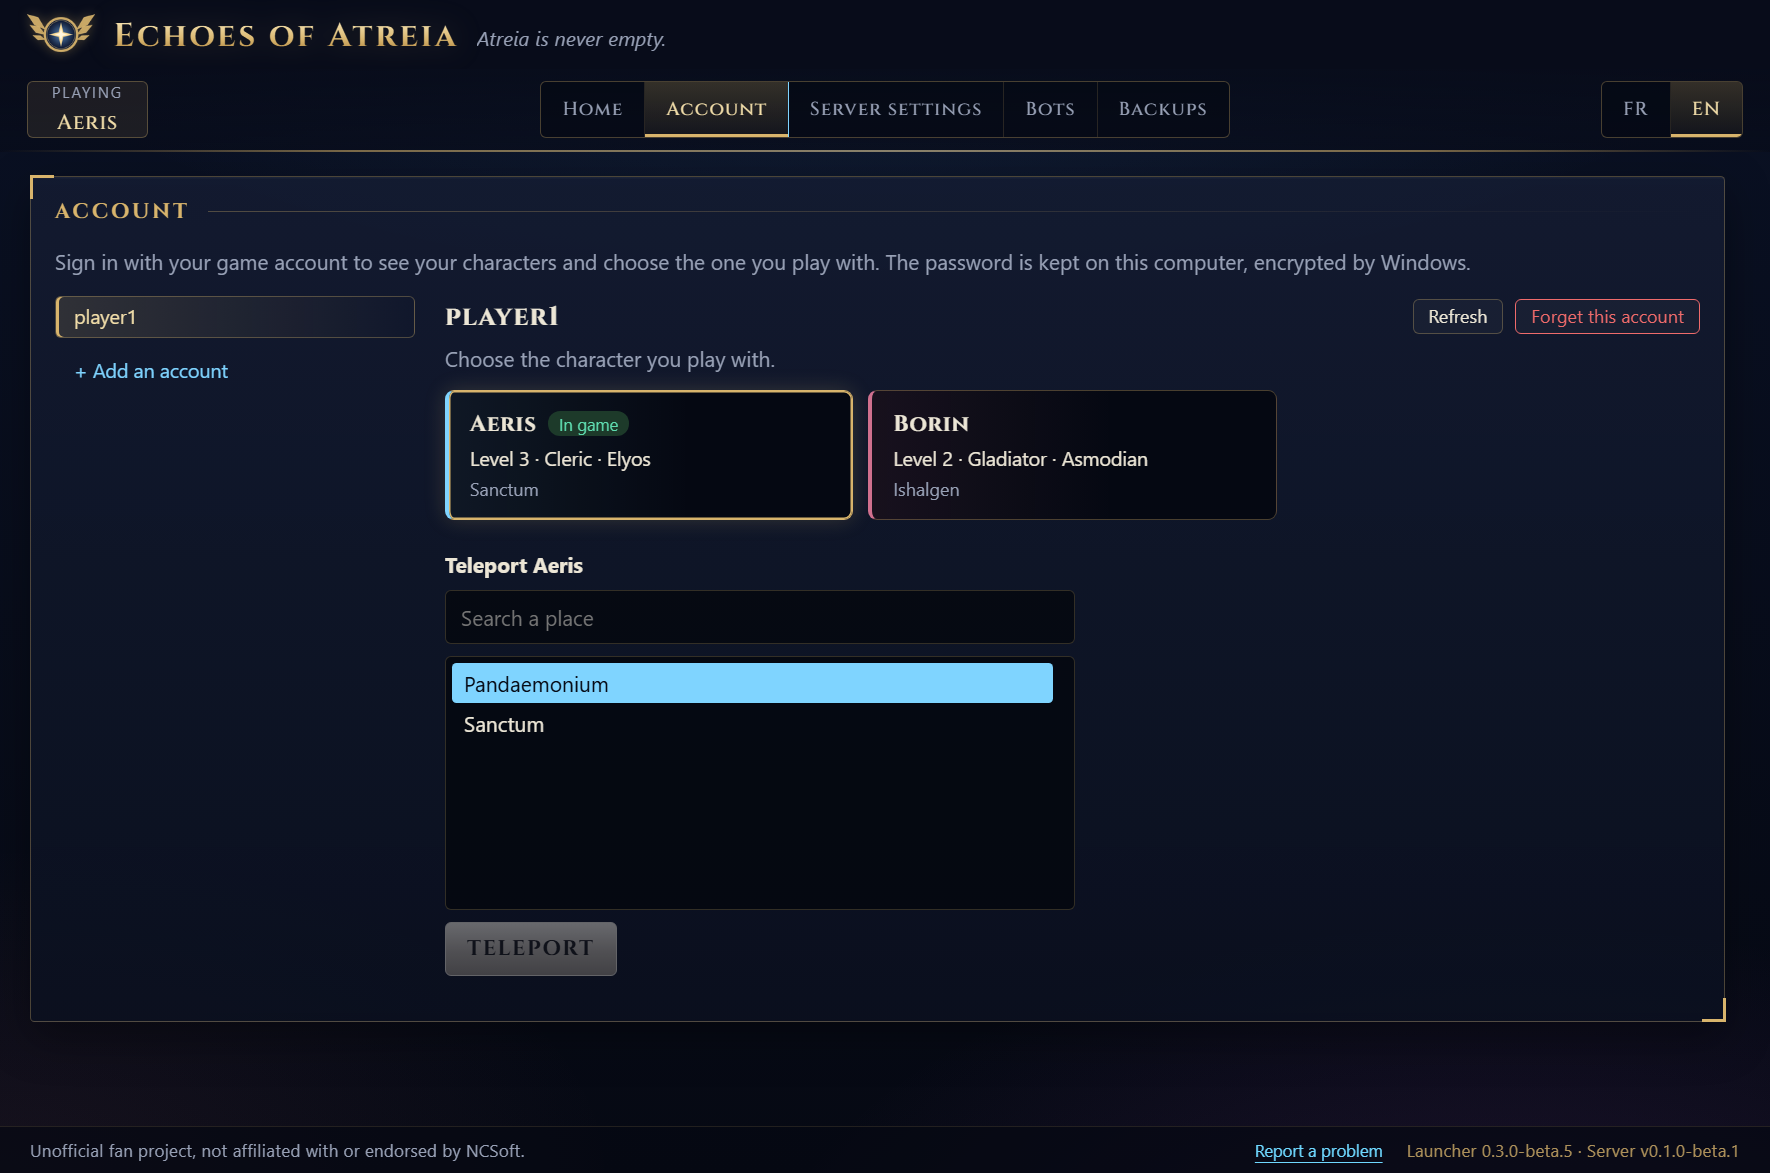
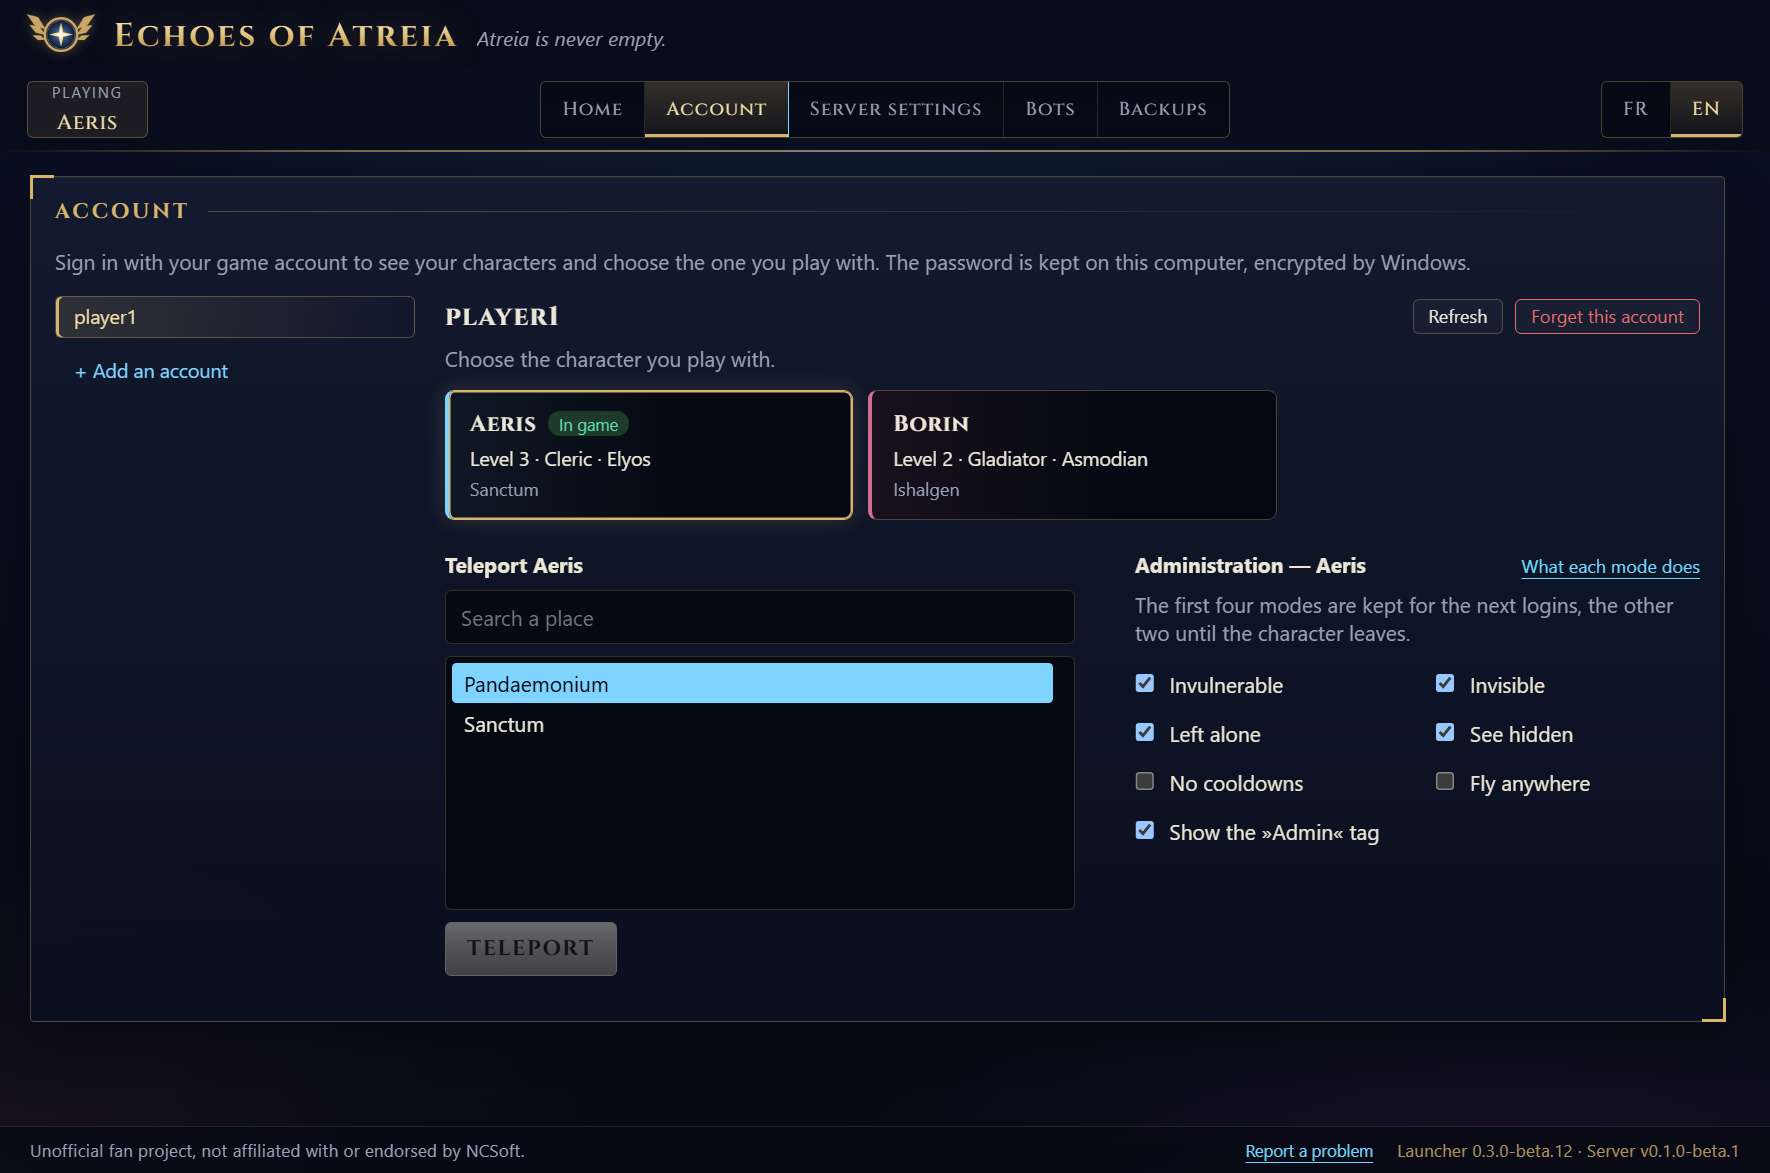
README: what the launcher does today, new pictures and one of the install from nothing; the news date read from the notes

diff --git a/tests/screenshots/readme.spec.ts b/tests/screenshots/readme.spec.ts
@@ -1,9 +1,10 @@
-import { readFileSync } from 'node:fs'
+import { readFileSync, rmSync } from 'node:fs'
 import { createServer, type Server } from 'node:http'
 import type { AddressInfo } from 'node:net'
 import { join, resolve } from 'node:path'
 import { expect, test, type Page } from '@playwright/test'
 import { createFakeInstall, launchWith } from '../e2e/fakeInstall'
+import { ServerFeedServer } from '../e2e/serverFeed'
 
 /**
  * Takes the pictures of README.md into docs/images/, in English, at the size the pages are drawn for. The fake install holds made-up accounts,
@@ -14,12 +15,12 @@ import { createFakeInstall, launchWith } from '../e2e/fakeInstall'
 const repoDir = resolve(__dirname, '..', '..')
 const images = join(repoDir, 'docs', 'images')
 
-/** The newest entry of the launcher's English notes, without its heading. */
-function latestLauncherNotes(): { tag: string; notes: string } {
+/** The newest entry of the launcher's English notes, without its heading, and the day its heading gives. */
+function latestLauncherNotes(): { tag: string; date: string; notes: string } {
   const text = readFileSync(join(repoDir, 'docs', 'release-notes', 'current.en.md'), 'utf8').replace(/\r\n/g, '\n')
-  const match = /^## (v\S+)[^\n]*\n([\s\S]*?)(?=\n---|\n## |(?![\s\S]))/m.exec(text)
+  const match = /^## (v\S+)(?: \S+ (\d{4}-\d{2}-\d{2}))?[^\n]*\n([\s\S]*?)(?=\n---|\n## |(?![\s\S]))/m.exec(text)
   if (!match) throw new Error('docs/release-notes/current.en.md has no entry')
-  return { tag: match[1]!, notes: match[2]!.trim() }
+  return { tag: match[1]!, date: `${match[2] ?? '2026-11-07'}T18:00:00Z`, notes: match[3]!.trim() }
 }
 
 const SERVER_NOTES =
@@ -42,7 +43,7 @@ function startFeed(): Promise<Server> {
     })
     const path = request.url ?? ''
     if (path === '/launcher.json') {
-      response.end(JSON.stringify([release(launcher.tag, '2026-11-07T18:00:00Z')]))
+      response.end(JSON.stringify([release(launcher.tag, launcher.date)]))
     } else if (path === '/server.json') {
       response.end(JSON.stringify([release('v0.1.0-beta.4', '2026-11-08T15:00:00Z')]))
     } else if (path === '/releases.json') {
@@ -115,6 +116,37 @@ test('the README pictures', async () => {
     // the launcher keeps its connections alive: closed first, or close() waits for them
     feed.closeAllConnections()
     await new Promise((done) => feed.close(done))
+    await install.dispose()
+  }
+})
+
+test('the picture of the install from nothing', async () => {
+  // a computer with the client and no server: the home page offers to install one from the newest server release
+  const install = await createFakeInstall()
+  const feed = new ServerFeedServer(join(install.root, 'server-feed'))
+  await feed.start()
+  const news = await startFeed()
+  try {
+    await feed.publish({
+      tag: 'v0.1.0-beta.8',
+      files: { 'game-server/start.bat': 'the server' },
+      runtimes: { java: { 'bin/java.exe': 'the runtime' }, mysql: { 'bin/mysqld.exe': 'the database' } }
+    })
+    rmSync(install.serverRoot, { recursive: true, force: true })
+    const newsUrl = `http://127.0.0.1:${(news.address() as AddressInfo).port}`
+    const { app, page } = await launchWith(install, { ECHOES_NEWS_FEED: newsUrl, ECHOES_SERVER_FEED: feed.url })
+    await page.getByRole('button', { name: 'EN', exact: true }).click()
+    await expect(page.getByTestId(`news-launcher-${latestLauncherNotes().tag}`)).toBeVisible()
+    const panel = page.getByTestId('server-setup')
+    await expect(panel).toHaveAttribute('data-status', 'idle', { timeout: 20_000 })
+    await panel.getByRole('button', { name: 'Install the server…' }).click()
+    await expect(page.getByTestId('server-setup-dialog')).toContainText('About 2.1 GB is downloaded')
+    await shoot(page, 'install')
+    await app.close()
+  } finally {
+    news.closeAllConnections()
+    await new Promise((done) => news.close(done))
+    await feed.stop()
     await install.dispose()
   }
 })

diff --git a/README.md b/README.md
@@ -1,17 +1,12 @@
 # Echoes of Atreia
 
-All-in-one launcher for a self-hosted Aion 4.8 server populated by AI-driven bots: install, play and back up your characters.
+All-in-one launcher for a self-hosted Aion 4.8 server populated by AI-driven bots: install the server, play, tune the world and back up your
+characters.
 
 > Unofficial fan project, not affiliated with or endorsed by NCSoft. Aion is a trademark of NCSoft Corporation.
 
 The server it drives is [aion-server-playerbots](https://github.com/FayneDre/aion-server-playerbots), a fork of
 [beyond-aion/aion-server](https://github.com/beyond-aion/aion-server) with bots that are real player characters.
-
-## Status
-
-Early development. The launcher finds the server, the client, Java and MySQL; starts the servers in order and stops them without losing
-data; shows their terminals; and launches the game. See [docs/roadmap.md](docs/roadmap.md) for what is done and what comes next and
-[docs/how-it-works.md](docs/how-it-works.md) for how it runs the servers.
 
 ## A look at it
 
@@ -19,22 +14,61 @@ data; shows their terminals; and launches the game. See [docs/roadmap.md](docs/r
 
 | | |
 |---|---|
-| <img src="docs/images/account.png" alt="The Account page: the characters of a game account, and a teleport" width="430"> | <img src="docs/images/server-settings.png" alt="The Server settings page: the rates, group by group" width="430"> |
-| **Account**: sign in with a game account, choose the character to play, teleport it. | **Server settings**: the experience, drop and other rates, against the official values. |
-| <img src="docs/images/bots.png" alt="The Bots page: how the bots earn experience, fight, speak and trade, and the list of bots" width="430"> | <img src="docs/images/backups.png" alt="The Backups page: the backups of both databases" width="430"> |
-| **Bots**: how the world's bots earn experience, fight players, speak and trade, and who is in the world. | **Backups**: the accounts and characters databases, backed up and restored in a click. |
+| <img src="docs/images/install.png" alt="Installing the server from nothing: a folder of its own, with its own Java and database" width="430"> | <img src="docs/images/account.png" alt="The Account page: the characters of a game account, a teleport and the administration modes" width="430"> |
+| **Install the server**: on a computer with only the game client, the server, its Java and its database in a folder of their own. | **Account**: sign in, choose the character to play, teleport it, and switch the game master modes of an administrator. |
+| <img src="docs/images/bots.png" alt="The Bots page: the population, experience, PvP, chat and broker settings, and the list of bots" width="430"> | <img src="docs/images/server-settings.png" alt="The Server settings page: the rates, group by group" width="430"> |
+| **Bots**: how many bots fill the world, how they earn experience, fight players, speak and trade, and who is in the world. | **Server settings**: the experience, drop and other rates, against the official values. |
+
+<p align="center"><img src="docs/images/backups.png" alt="The Backups page: the backups of both databases" width="430"><br><b>Backups</b>: the accounts and characters databases, backed up and restored in a click.</p>
 
 The pictures are of the launcher in English against the tests' fake install (made-up accounts, characters and bots): `npm run screenshots`
 takes them again.
+
+## What it does
+
+**Install and update**
+- **The server installed from nothing**: on a computer with only the game client, the launcher downloads and checks the server, its own Java,
+  its own MySQL database and the bots' maps (about 2.1 GB), makes the database on a free port, and installs nothing on Windows itself. A
+  download that stops is taken up where it was.
+- **Server updates**: the server's releases, installed with their database updates and undone in one click; your own settings files are kept.
+- **Launcher updates**: a new version is offered on one line at the top of the window, with its notes; nothing is downloaded or installed
+  before you say so.
+- **Uninstall**: a server the launcher installed is removed from its Installation window, after a last backup of your accounts and characters.
+
+**Play**
+- The database, the chat, login and game servers started in order, each waiting for the one before, and stopped cleanly (the game server saves
+  its players). A failure keeps its row, with "Why?" and the server's log.
+- The game client checked and launched on the server, in the language of its complete language packs.
+- The servers' terminals, coloured, in the window.
+
+**The world and its bots**
+- **Population**: how full the hunting grounds are (following the players, constant, or with a minimum), and a mark of the PC's RAM past which
+  no more bots arrive.
+- **Bot settings**: their experience, PvP, chat and its language, and the broker; the list of bots by faction.
+- **Server settings**: every rate by family, regular and premium, and the daily Glory Point loss; applied at once to a running server.
+
+**Your account**
+- Sign in with a game account, see its characters, choose the one you play, teleport it to a place of the server's list.
+- **Administration**, for an administrator character in game: Invulnerable, Invisible, Left alone, See hidden, No cooldowns, Fly anywhere and
+  the »Admin« tag.
+- **Backups** of the accounts and characters databases, made and restored in one click.
+
+**On the desktop**
+- French and English; the icon in the notification area, closing to the background, starting with Windows; a problem report; "What's new"
+  for the launcher and the server.
+
+What is done and what comes next: [docs/roadmap.md](docs/roadmap.md). How it runs the servers: [docs/how-it-works.md](docs/how-it-works.md).
 
 ## Download
 
 Windows builds are on the [Releases](https://github.com/FayneDre/echoes-of-atreia-launcher/releases) page: an installer, or a portable
 exe that runs without installing. They are not signed, so Windows SmartScreen warns the first time: *More info*, then *Run anyway*.
 
-The launcher drives a server and a client already installed: Java 25 or later, MySQL as a Windows service, the
-[server](https://github.com/FayneDre/aion-server-playerbots) and the Aion 4.8 client. It finds the server through `AION_SERVER_HOME` or
-the folder chosen in its Installation panel, and the client in a folder next to it, or the one chosen.
+You need Windows and the Aion 4.8 client; the launcher installs the server and what it runs on. The client is not part of this project: see
+the server's README for where to find it and the file it needs.
+
+A server installed some other way also works: the launcher finds it through `AION_SERVER_HOME` or the folder chosen in its Installation
+window, and then uses a JDK 25 and the MySQL it finds (a Windows service, or one started with your own `my.ini`).
 
 ## Development
 
@@ -51,14 +85,13 @@ npm run dist       # the Windows installer and portable exe, in dist/
 npm run screenshots  # the README's pictures, into docs/images/
 ```
 
-The launcher finds the server through the `AION_SERVER_HOME` environment variable, or the folder chosen in its Installation panel.
-
 Layout:
 
-- `src/main/` — the Electron main process: windows, and later processes, files and the database.
+- `src/main/` — the Electron main process: the servers and the client, the database and backups, the server's install and updates, the
+  launcher's own updates.
 - `src/preload/` — the only bridge between the interface and the system (`window.launcher`).
 - `src/renderer/` — the interface, in React; texts live in `src/renderer/src/i18n/` (English is the reference).
-- `tests/e2e/` — Playwright tests against the built application, each on a throwaway profile.
+- `tests/e2e/` — Playwright tests against the built application, each on a throwaway profile and a fake install.
 
 ## Licence
 
